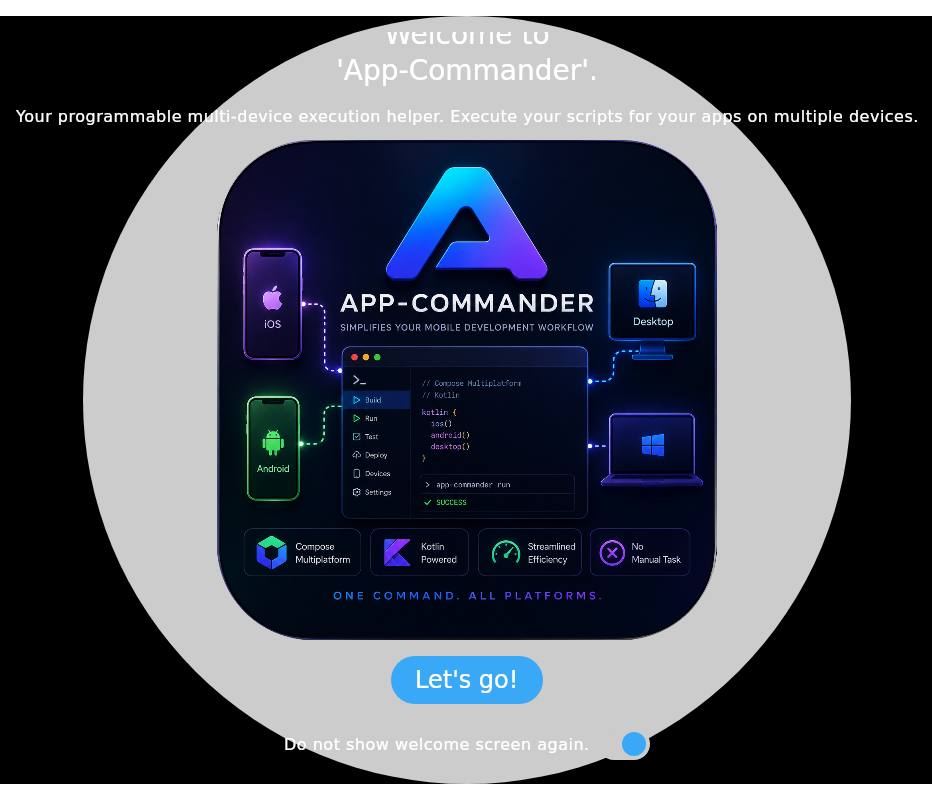
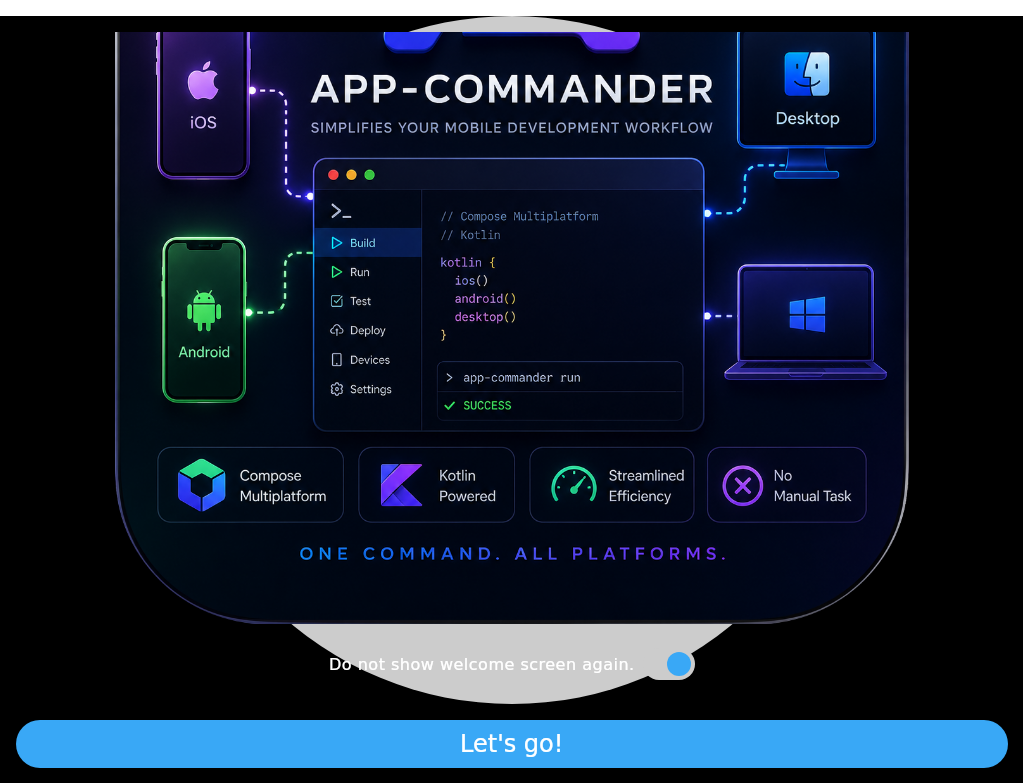
prepare new release 3.2.0 (#125)
* prepare new release 3.2.0

* Fix/Improve

* fix test

* CI: Update screenshots

diff --git a/sharedCode/src/commonMain/kotlin/de/joz/appcommander/ui/welcome/WelcomeScreen.kt b/sharedCode/src/commonMain/kotlin/de/joz/appcommander/ui/welcome/WelcomeScreen.kt
@@ -11,10 +11,10 @@ import androidx.compose.foundation.layout.Arrangement
 import androidx.compose.foundation.layout.Column
 import androidx.compose.foundation.layout.Spacer
 import androidx.compose.foundation.layout.fillMaxSize
+import androidx.compose.foundation.layout.fillMaxWidth
 import androidx.compose.foundation.layout.height
 import androidx.compose.foundation.layout.navigationBarsPadding
 import androidx.compose.foundation.layout.padding
-import androidx.compose.foundation.layout.size
 import androidx.compose.foundation.rememberScrollState
 import androidx.compose.foundation.verticalScroll
 import androidx.compose.material3.Button
@@ -78,7 +78,18 @@ internal fun WelcomeContent(
 	Scaffold(
 		containerColor = MaterialTheme.colorScheme.surface,
 		modifier = modifier,
-	) {
+		bottomBar = {
+			Button(
+				modifier = Modifier.padding(all = 16.dp).navigationBarsPadding().fillMaxWidth(),
+				onClick = onNavigateToScripts,
+			) {
+				Text(
+					text = stringResource(Res.string.welcome_action),
+					style = MaterialTheme.typography.headlineSmall,
+				)
+			}
+		},
+	) { paddingValues ->
 		val yOffset = rememberInfiniteTransition(label = "bubble")
 			.animateFloat(
 				initialValue = -0.25f,
@@ -95,6 +106,7 @@ internal fun WelcomeContent(
 
 		Column(
 			Modifier
+				.padding(paddingValues)
 				.fillMaxSize()
 				.drawBehind {
 					renderBubbles(yOffset, isInTextExecution, bubblesStrategy)
@@ -115,26 +127,16 @@ internal fun WelcomeContent(
 				textLabelType = TextLabelType.BodyLarge,
 				textAlign = TextAlign.Center,
 			)
-			Spacer(Modifier.height(12.dp))
+			Spacer(Modifier.height(24.dp))
 			Image(
-				modifier = Modifier.size(500.dp),
+				modifier = Modifier.fillMaxWidth(fraction = 0.8f),
 				painter = painterResource(Res.drawable.app_logo),
 				contentDescription = null,
 			)
-			Spacer(Modifier.height(16.dp))
-			Button(
-				onClick = onNavigateToScripts,
-			) {
-				Text(
-					text = stringResource(Res.string.welcome_action),
-					style = MaterialTheme.typography.headlineSmall,
-				)
-			}
-			Spacer(Modifier.weight(1f))
 
 			var isChecked by remember { mutableStateOf(false) }
 			LabelledSwitch(
-				modifier = Modifier.padding(all = 16.dp).navigationBarsPadding(),
+				modifier = Modifier.padding(all = 16.dp),
 				label = stringResource(Res.string.welcome_do_not_show_again),
 				checked = isChecked,
 				onCheckedChange = {

diff --git a/sharedCode/src/commonTest/kotlin/de/joz/appcommander/ui/welcome/WelcomeScreenTest.kt b/sharedCode/src/commonTest/kotlin/de/joz/appcommander/ui/welcome/WelcomeScreenTest.kt
@@ -9,6 +9,7 @@ import androidx.compose.ui.test.assertHasClickAction
 import androidx.compose.ui.test.assertIsDisplayed
 import androidx.compose.ui.test.onNodeWithText
 import androidx.compose.ui.test.performClick
+import androidx.compose.ui.test.performScrollTo
 import androidx.compose.ui.test.v2.runComposeUiTest
 import androidx.navigation.NavController
 import de.joz.appcommander.domain.navigation.NavigationScreens
@@ -48,7 +49,7 @@ class WelcomeScreenTest {
 				"Your programmable multi-device execution helper. Execute your scripts for your apps on multiple devices.",
 			).assertIsDisplayed()
 			onNodeWithText("Let's go!").assertIsDisplayed().assertHasClickAction()
-			onNodeWithText("Do not show welcome screen again.").assertIsDisplayed()
+			onNodeWithText("Do not show welcome screen again.").performScrollTo().assertIsDisplayed()
 		}
 	}
 
@@ -76,7 +77,7 @@ class WelcomeScreenTest {
 					useCustomBubbleStrategy = true,
 				)
 
-				onNodeWithText("Do not show welcome screen again.").performClick()
+				onNodeWithText("Do not show welcome screen again.").performScrollTo().performClick()
 
 				screenshotVerifier.verifyScreenshot(source = this, screenshotName = "toggle_click")
 			}
@@ -98,8 +99,8 @@ class WelcomeScreenTest {
 					navController = navController,
 				)
 
-				onNodeWithText("Do not show welcome screen again.").performClick()
-				onNodeWithText("Do not show welcome screen again.").performClick()
+				onNodeWithText("Do not show welcome screen again.").performScrollTo().performClick()
+				onNodeWithText("Do not show welcome screen again.").performScrollTo().performClick()
 			}
 
 			assertFalse(
